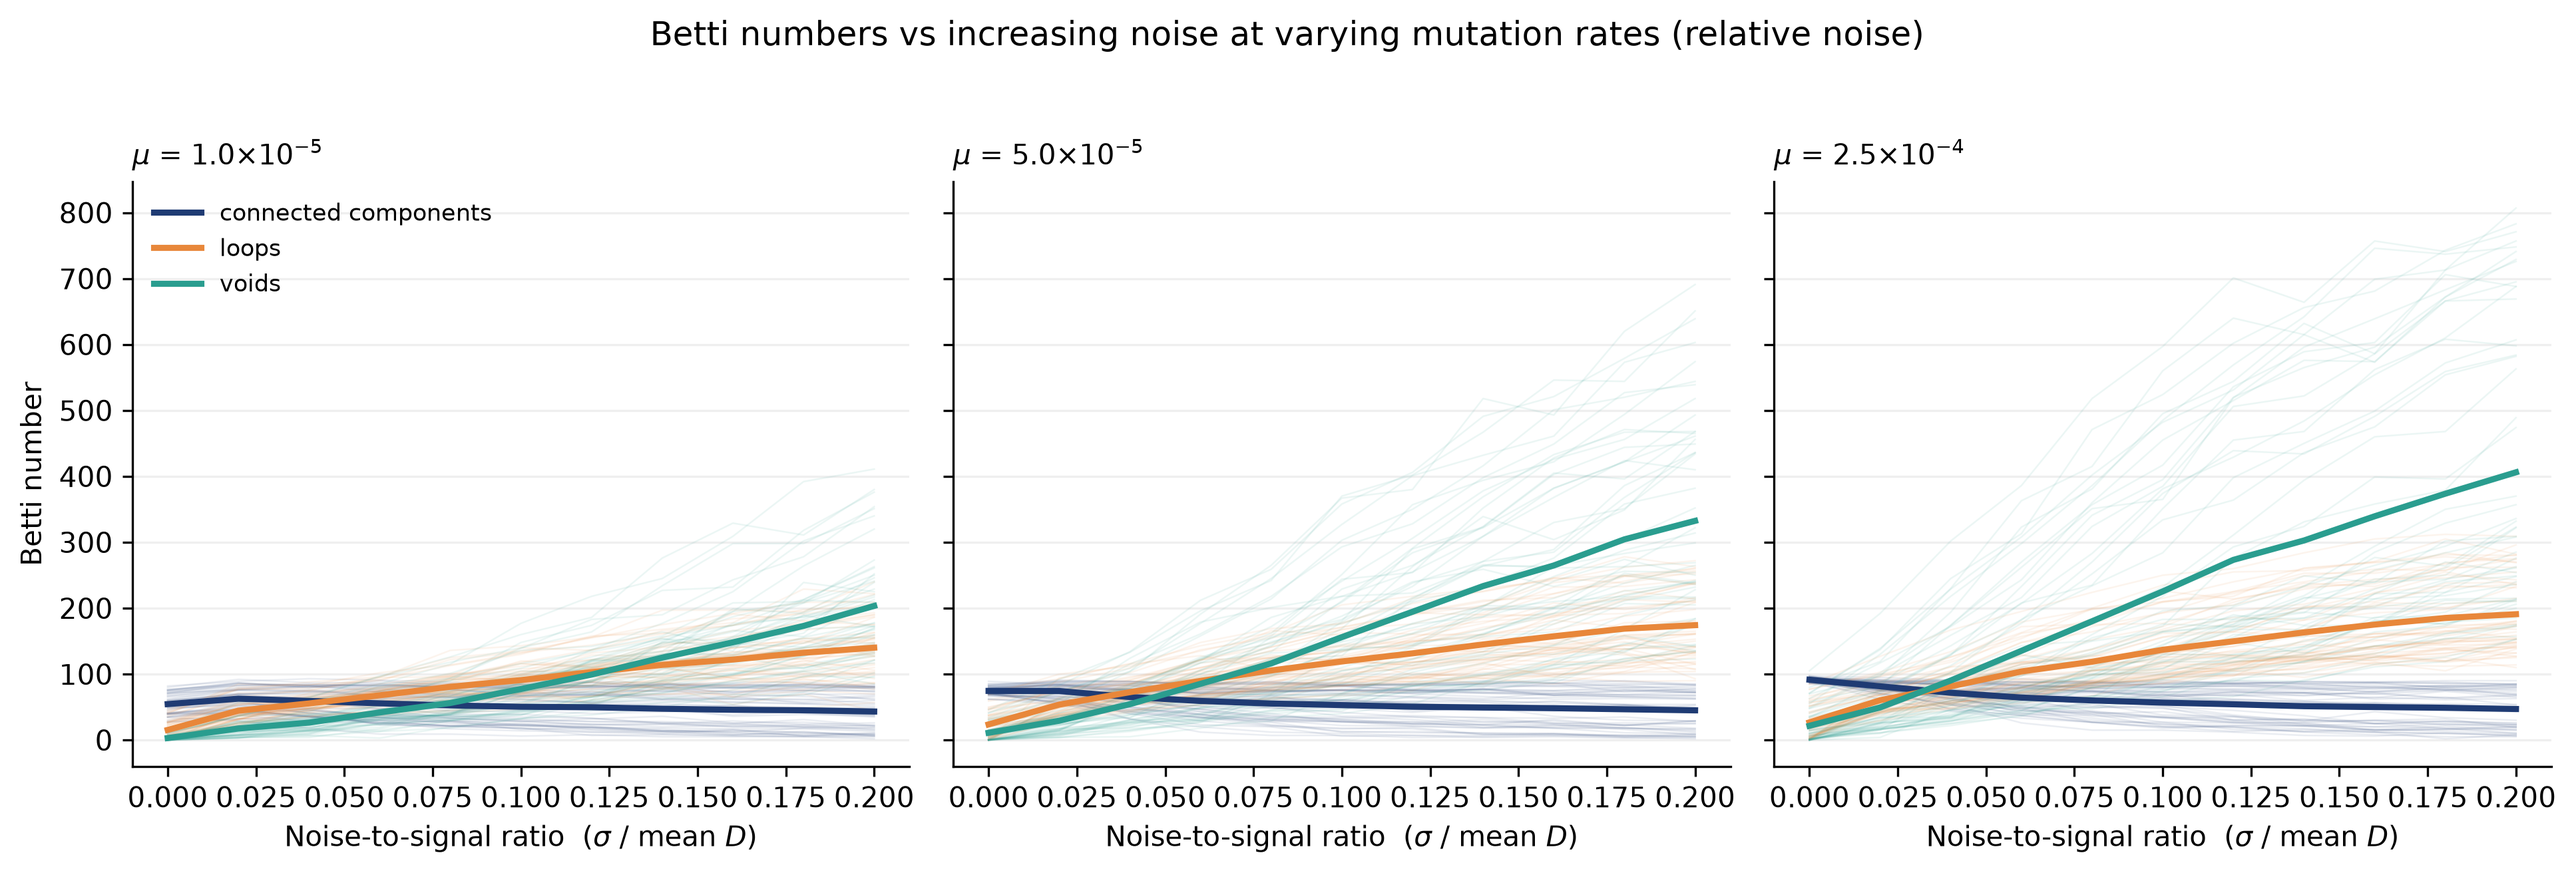
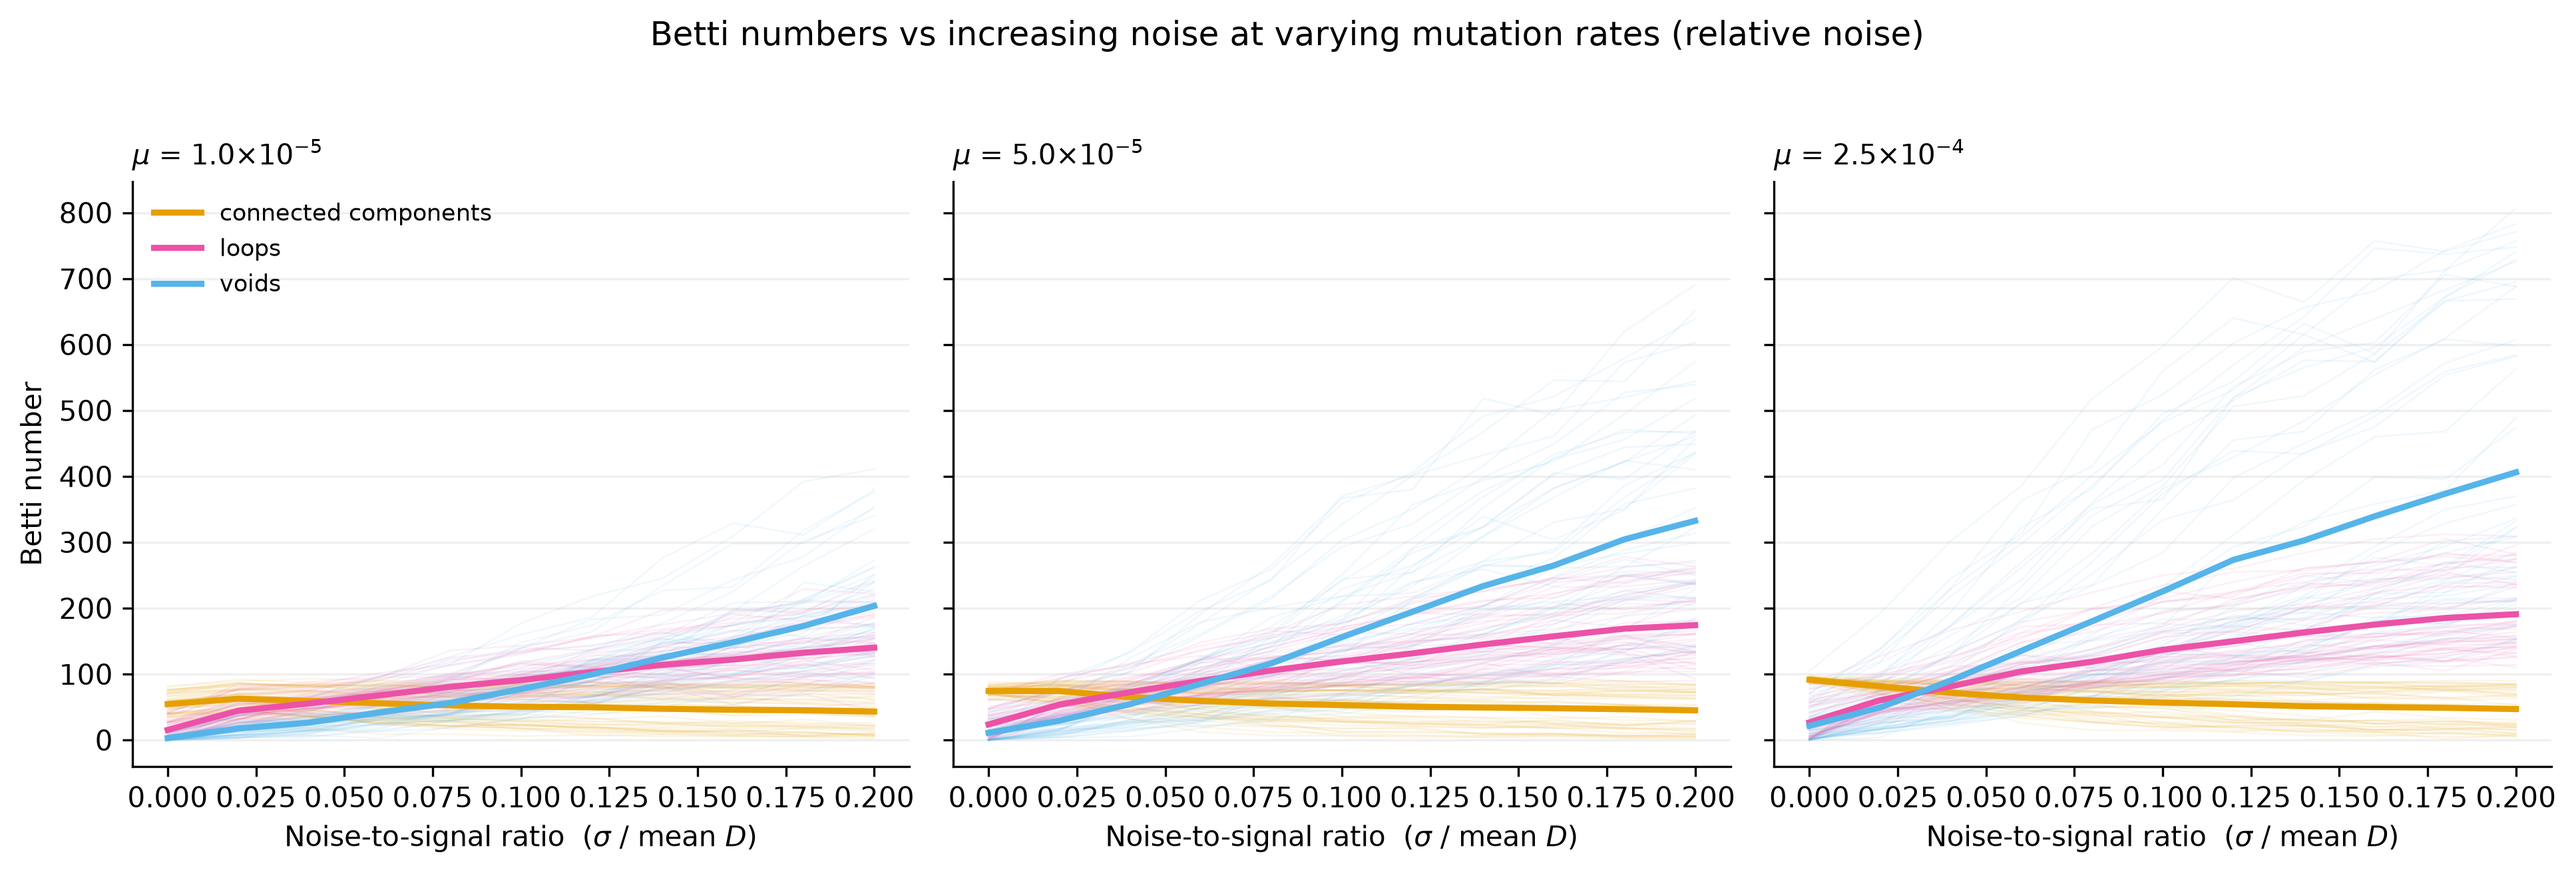
change fig colors

diff --git a/scripts/12_figure_sanity_betti.py b/scripts/12_figure_sanity_betti.py
@@ -9,7 +9,7 @@ OUT_GRID = "figures/sanity_betti_grid.png"
 OUT_FLOOR = "figures/sanity_betti_floor.png"
 
 MU_ORDER = ["low", "mid", "high"]
-MU_COLOUR = {"low": "#E8873A", "mid": "#6B3FA0", "high": "#1F6FB2"}
+MU_COLOUR = {"low": "#E69F00", "mid": "#EC52A7", "high": "#56B4E9"}
 MU_LABEL = {
     "low": r"$\mu$ = 1.0$\times$10$^{-5}$",
     "mid": r"$\mu$ = 5.0$\times$10$^{-5}$",

diff --git a/scripts/10_figure_dose_lines.py b/scripts/10_figure_dose_lines.py
@@ -8,7 +8,7 @@ FEATURES = "data/processed/features.csv"
 OUT = "figures/dose_response_lines_clean.png"
 
 MU_ORDER = ["low", "mid", "high"]
-MU_COLOUR = {"low": "#E8873A", "mid": "#6B3FA0", "high": "#1F6FB2"}
+MU_COLOUR = {"low": "#E69F00", "mid": "#EC52A7", "high": "#56B4E9"}
 MU_LABEL = {
     "low": r"$\mu$ = 1.0$\times$10$^{-5}$",
     "mid": r"$\mu$ = 5.0$\times$10$^{-5}$",

diff --git a/scripts/11_figure_topone_replication.py b/scripts/11_figure_topone_replication.py
@@ -22,8 +22,7 @@ import matplotlib.pyplot as plt
 FEATURES = "data/processed/features.csv"
 FIGDIR = "figures"
 
-# TopONE's colour assignment.
-DIM_COLOUR = {0: "#1F3B73", 1: "#E8873A", 2: "#2A9D8F"}
+DIM_COLOUR = {0: "#E69F00", 1: "#EC52A7", 2: "#56B4E9"}
 DIM_LABEL = {0: "connected components", 1: "loops", 2: "voids"}
 
 MU_ORDER = ["low", "mid", "high"]
